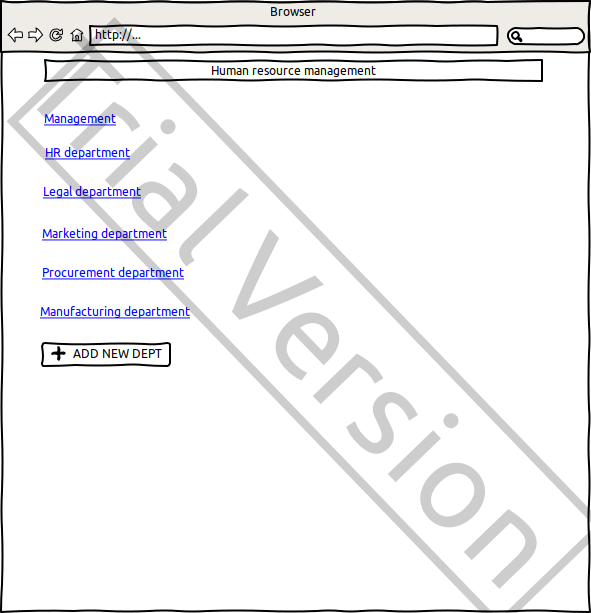
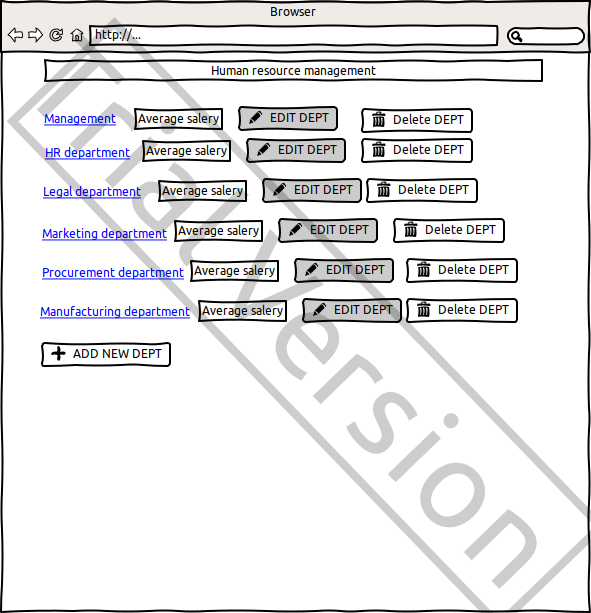
step5 after first review

Changed region(s): [[0.2132, 0.155, 0.8832, 0.5269]]

diff --git a/documentation/SRS.md b/documentation/SRS.md
@@ -1,109 +1,83 @@
 # Human resource management web application
-
 Application should provide:
-
--Storing departments and employees in a database;
--Display a list of departments and the average salary for each department;
--Display a list of employees with an indication of the employee's salary;
--Searching employees born on a certain date or in the period between dates;
--Updating a list of employees (adding, editing, removing);
--Updating a list of departments (adding, editing, removing).
-
-##Departments
+- Storing departments and employees in a database;
+- Display a list of departments and the average salary for each department;
+- Display a list of employees with an indication of the employee's salary;
+- Searching employees born on a certain date or in the period between dates;
+- Updating a list of employees (adding, editing, removing);
+- Updating a list of departments (adding, editing, removing).
+## Departments
 ### Display a list of departments
-
-The mode is designed to view a list of departments.
-
+The mode is designed to view a list of departments, average salary of departments, and also edit the department's
+info.
 ![Main page](mockups/main_page.png)
-
-####Add department
-
-**Main scenario:**
--User clicks the “ADD NEW DEPT” button in the list of departments view mode;
--Application displays form to enter department's title;
--User enters department's title and presses “Save” button;
--New department record is successfully added, then the list of departments 
-with added record is displaying.
-
+#### Add department
+**Main scenario:**  
+- User clicks the “ADD NEW DEPT” button in the list of departments view mode;
+- Application displays form to enter department's title;
+- User enters department's title and presses “Save” button;
+- New department record is successfully added, then the list of departments with added record is displaying.
 ![Add_new_dept](mockups/add_new_dept.png)
 
 **Cancel operation scenario:**
--User clicks the “ADD NEW DEPT” button in the list of departments view mode;
--Application displays form to enter department's title;
--User enters department's title and presses “Cancel” button;
--Data don’t save in data base, then user is redirected to the list of departments.
+- User clicks the “ADD NEW DEPT” button in the list of departments view mode;
+- Application displays form to enter department's title;
+- User enters department's title and presses “Cancel” button;
+- Data don’t save in database, then user is redirected to the list of departments.  
 
-##Employees
-###Display list of employees
-
-This mode is intended for viewing and editing the list of employees of current department
-and also edit the department's info.
-
-![Management_dept](mockups/management_dep.png)
-
-**"Delete DEPT"** button redirects user to main page with the list of departments without 
-deleted department.
+**"Delete DEPT"** button redirects user to main page with the list of departments without deleted department. 
+All records about employees of this department have been removed from the database.  
 **"EDIT DEPT"** button redirects user to edit form:
-
 ![Edit_dept_info](mockups/edit_dept_info.png)
-
 **Main scenario:**
--Application displays form to edit department's title;
--User enters department's title and presses “Save” button;
--New department's title is successfully saveed, then user is redirected to the
-list of employees of edited department, where it's new title is displaying.
+- Application displays form to edit department's title;
+- User enters department's title and presses “Save” button;
+- New department's title is successfully saved, then user is redirected to the list of employees of edited department, 
+where it's new title is displaying.  
 
 **Cancel operation scenario:**
--Application displays form to edit department's title;
--User enters department's title and presses “Cancel” button;
--The title don’t saved in data base, then user is redirected to the list of employees of the
-department.
-
+- Application displays form to edit department's title;
+- User enters department's title and presses “Cancel” button;
+- The title don’t saved in database, then user is redirected to the list of employees of the department.  
+## Employees
+### Display list of employees
+This mode is intended for viewing and editing the list of employees of current department.  
+![Management_dept](mockups/management_dep.png)  
 **"ADD EMPLOYEE"** button redirects user to post form:
-
 ![Add employee form](mockups/add_new_empl.png)
-
 **Main scenario:**
--Application displays form to enter employee's data;
--User introduces employee's first name, last name,  date of birth, salary; 
--User clicks the “SAVE” button;
--New eployee's record is successfully saved, then user is redirected to the list
-of employees of edited department, where new eployee's data and new department's 
-everage salary is displaying.
-
-Aggregate function of department's everage salary: Everage salary = Total salary  / Number of
-eployee
+- Application displays form to enter employee's data;
+- User introduces employee's first name, last name, date of birth, salary; 
+- User clicks the “SAVE” button; 
+- New employee's record is successfully saved, then user is redirected to the list of employees of edited department,  
+where new employee's data and new department's average salary is displaying.  
+Aggregate function of department's average salary: Average salary = Total salary / Number of employee  
 
 **Cancel operation scenario:**
--Application displays form to enter employee's data;
--User introduces employee's first name, last name,  date of birth, salary; 
--User presses “Cancel” button;
--Employee's data don’t save in data base, then user is redirected to the list of employees 
-of the department.
-
-**"Delete"** button redirects user to the webpage of running deparment with the list of
-employees without deleted employee 
+- Application displays form to enter employee's data; 
+- User introduces employee's first name, last name, date of birth, salary;
+- User presses “Cancel” button;
+- Employee's data don’t save in database, then user is redirected to the list of employees of the department.  
+**"Delete"** button redirects user to the webpage of running department with the list of employees without deleted
+employee  
 
 **"EDIT"** button redirects user to employee's edit form:
 
 ![Employee's edit form](mockups/employee_detail.png)
 
 **Main scenario:**
--Application displays form to edit employee's data;
--User edit employee's first name or last name or date of birth or salary; 
--User clicks the “SAVE” button;
--New eployee's data is successfully saved, then user is redirected to the list
-of employees of employee's department, where new eployee's data and new department's 
-everage salary is displaying.
+- Application displays form to edit employee's data; 
+- User edit employee's first name or last name or date of birth or salary; 
+- User clicks the “SAVE” button; 
+- New employee's data is successfully saved, then user is redirected to the list of employees of employee's department,  
+where new employee's data and new department's average salary is displaying.
 
 **Cancel operation scenario:**
--Application displays form to edit employee's data;
--User edit employee's first name or last name or date of birth or salary; 
--User clicks the “Cancel” button;
--Employee's data don’t save in data base, then user is redirected to the list of employees
-of the department.
-
-##Filtering by date
--In the list of emloyees view mode user sets filtering conditions and presses the "VIEW"
-button;
--The application will show the emloyees only for a certain period of time in a new window.
+- Application displays form to edit employee's data; 
+- User edit employee's first name or last name or date of birth or salary; 
+- User clicks the “Cancel” button; 
+- Employee's data don’t save in database, then user is redirected to the list of employees of the department.
+## Filtering by date
+- In the list of employees view mode user sets filtering conditions and presses the "VIEW"
+button; 
+- The application will show the employees only for a certain period of time in a new window.
